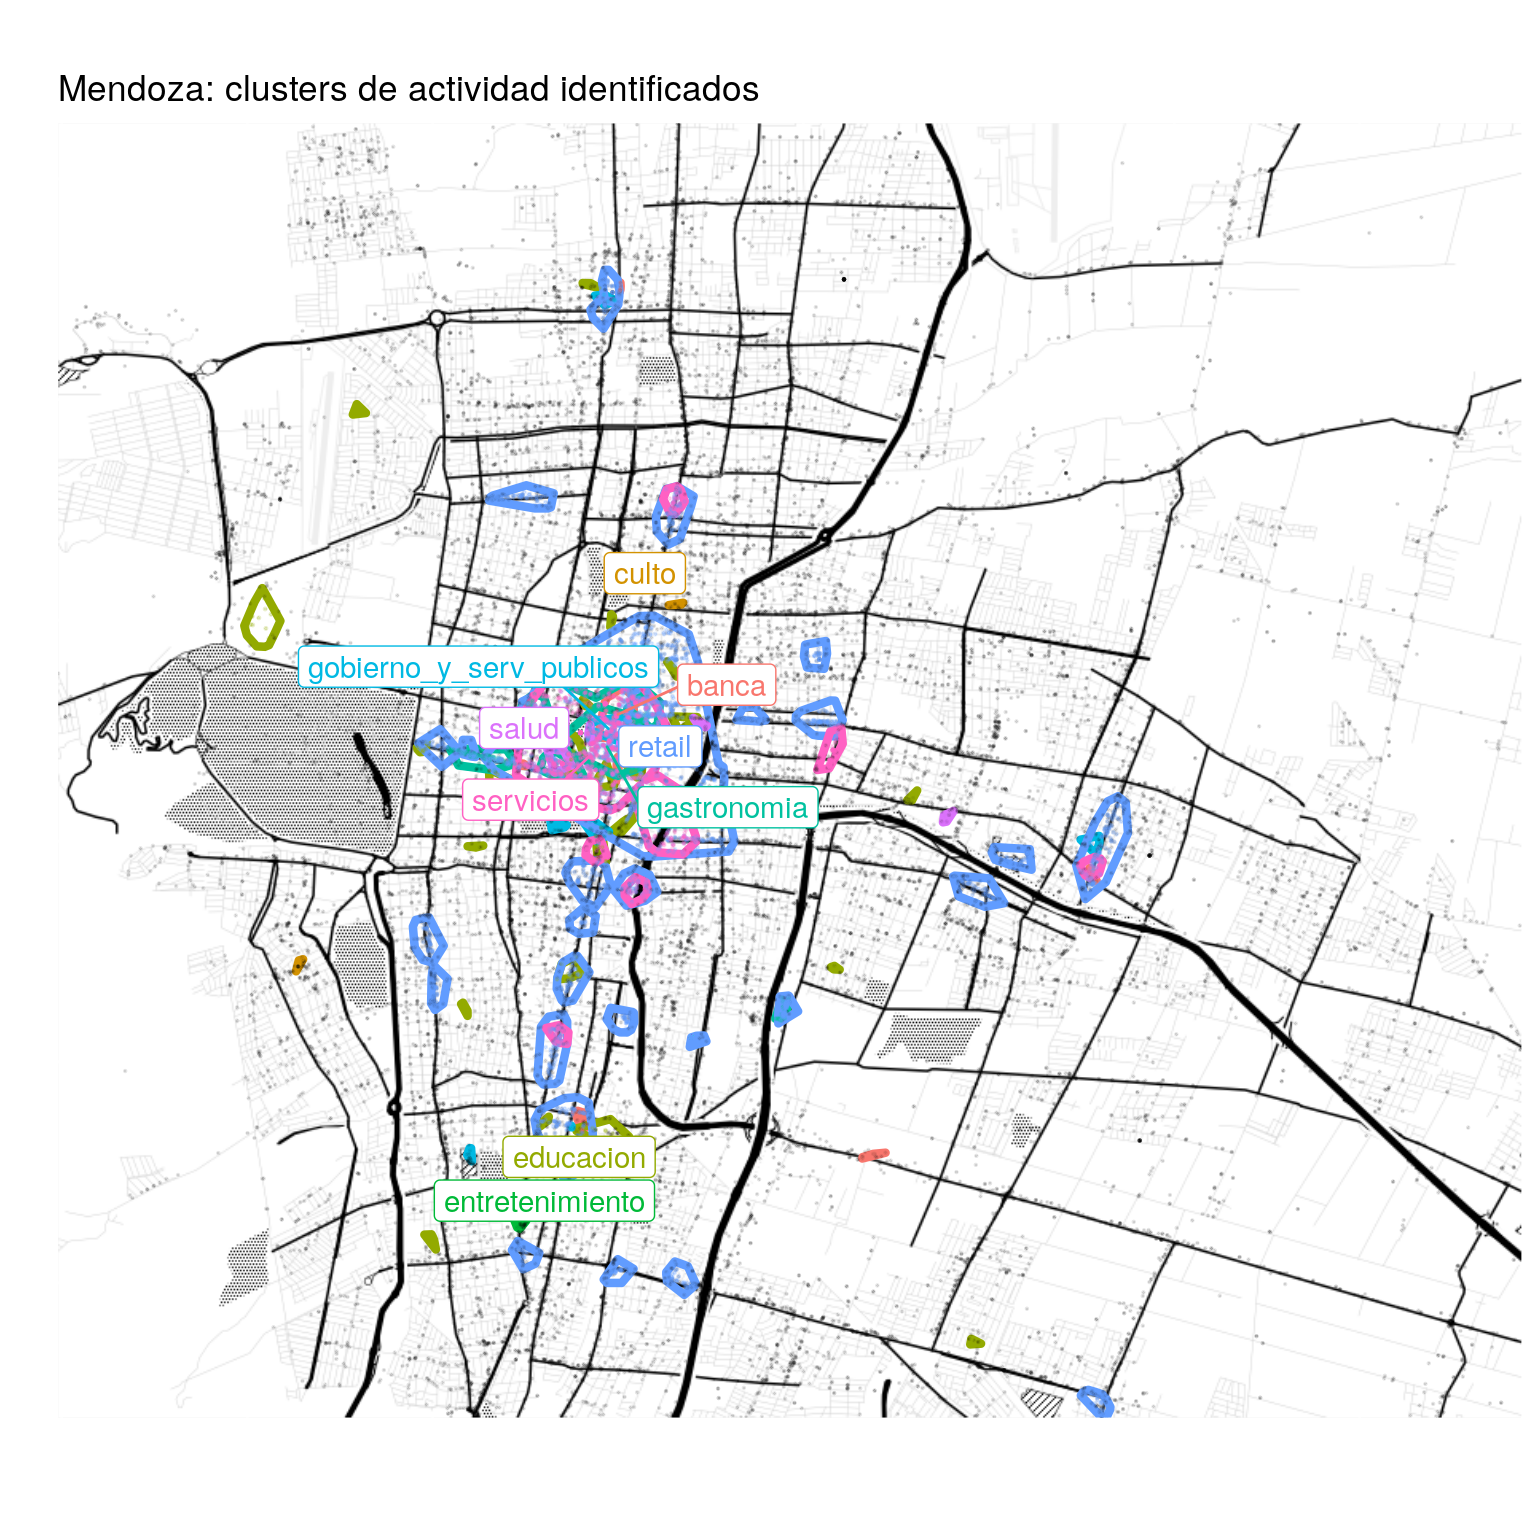
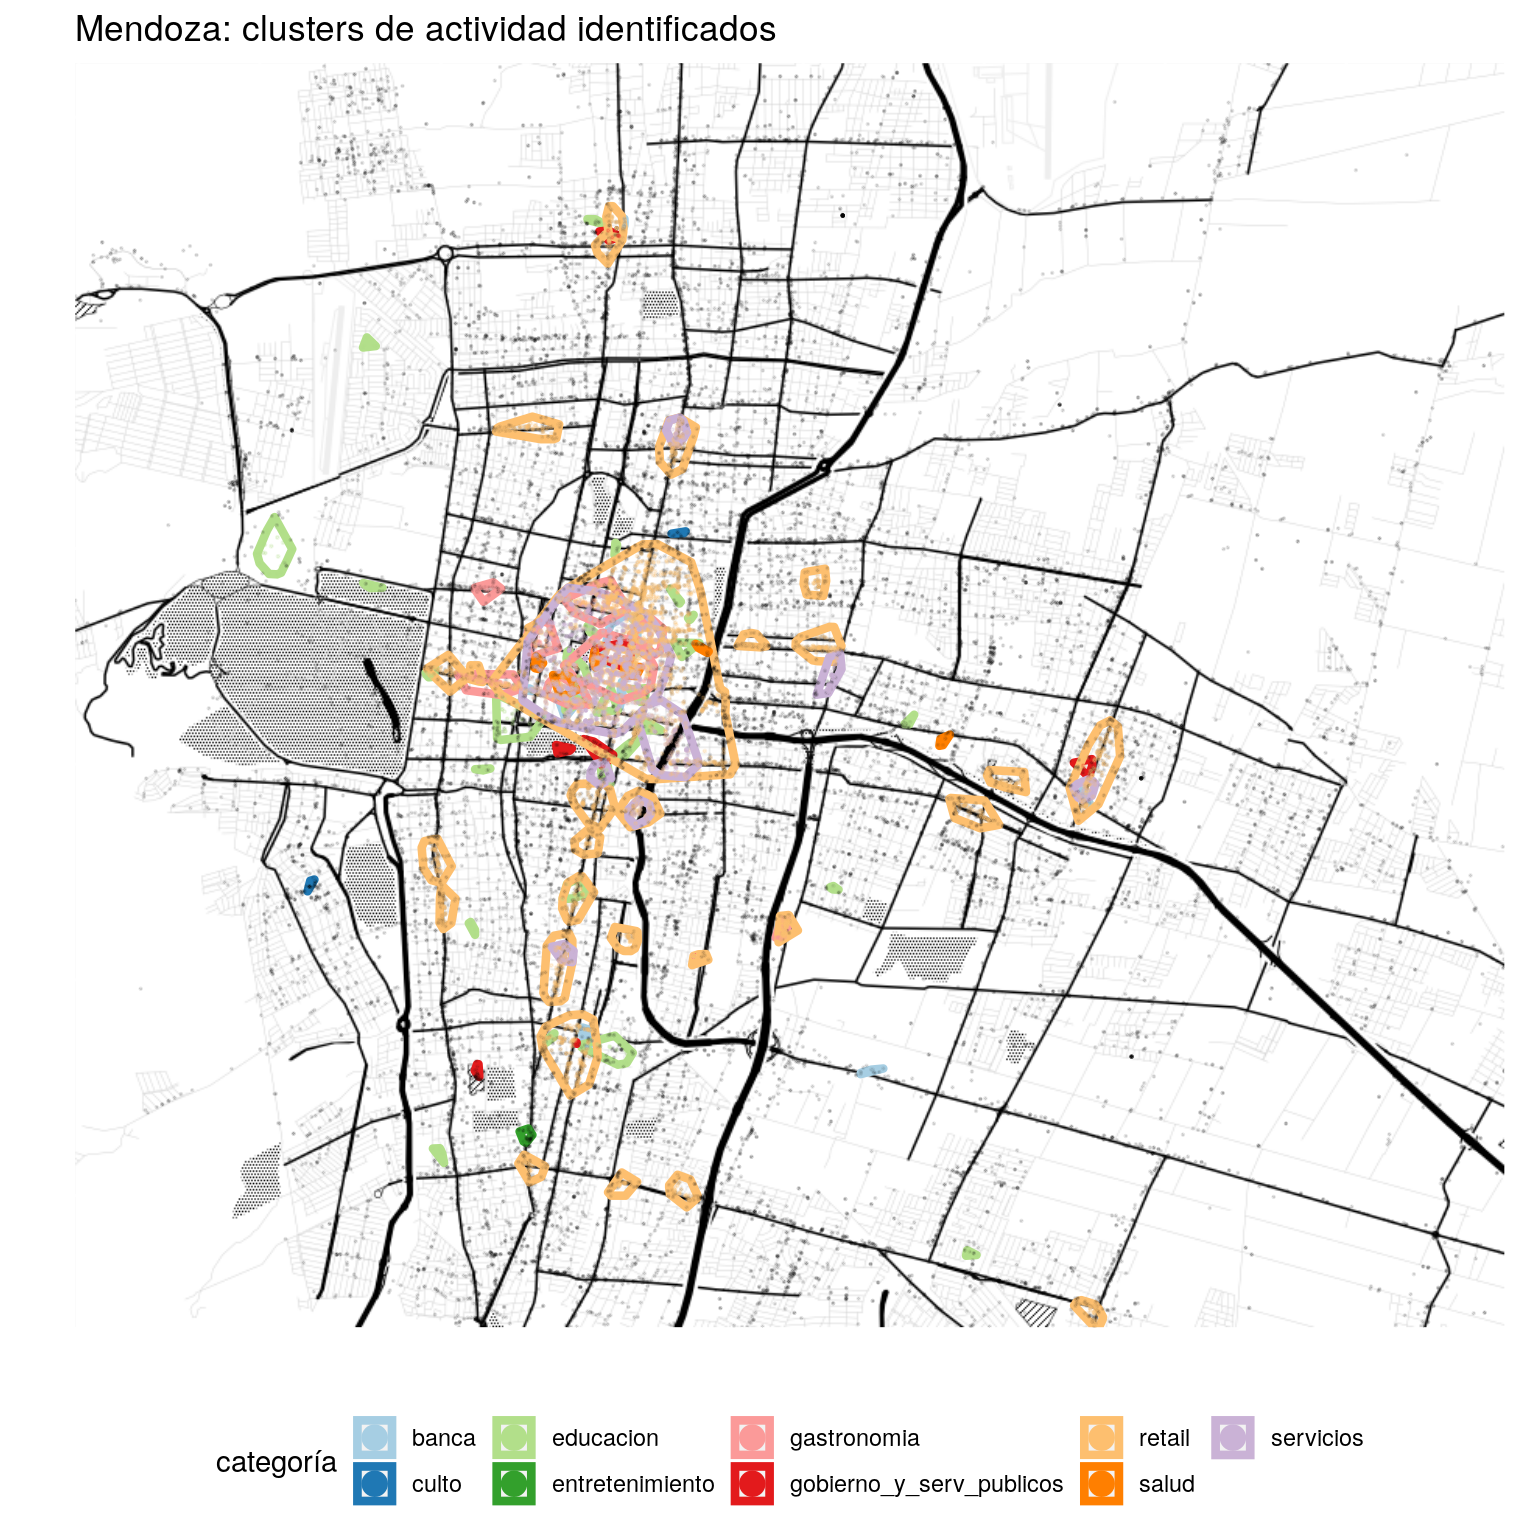
Blog update

Changed region(s): [[0.0312, 0.0, 1.0, 1.0], [0.875, 0.2188, 0.9688, 0.2812], [0.7812, 0.2188, 0.8438, 0.25]]

diff --git a/post/dbscan-machine-learning-para-detectar-centros-de-actividad-urbana/index.html b/post/dbscan-machine-learning-para-detectar-centros-de-actividad-urbana/index.html
@@ -232,21 +232,19 @@ ga('send', 'pageview');
 </div>
 <div id="paquetes-a-utilizar" class="section level2">
 <h2>Paquetes a utilizar</h2>
-<p>Los herramientas generales de Tidyverse, siempre útiles para el proceso general de análisis de datos</p>
+<p>Los herramientas generales de Tidyverse, siempre útiles para el proceso general de análisis de datos:</p>
 <pre class="r"><code>library(tidyverse)</code></pre>
-<p>y cinco paquetes especializados:</p>
+<p>y cuatro paquetes especializados:</p>
 <ul>
 <li><code>sf</code> para leer y procesar datos geoespaciales</li>
 <li><code>geosphere</code> para calcular distancias sobre la superficie terrestre</li>
 <li><code>dbscan</code> para emplear el algoritmo homónimo de machine learning que permite encontrar <em>clusters</em> de elementos próximos</li>
 <li><code>ggmap</code> para obtener y visualizar mapas detallados de la ciudad que analizaremos</li>
-<li><code>ggrepel</code> para etiquetar en forma prolija nuestros mapas con gran cantidad de puntos</li>
 </ul>
 <pre class="r"><code>library(sf)
 library(geosphere)
 library(dbscan)
-library(ggmap)
-library(ggrepel)</code></pre>
+library(ggmap)</code></pre>
 </div>
 <div id="los-datos" class="section level2">
 <h2>Los datos</h2>
@@ -438,16 +436,14 @@ hulls_por_cat &lt;- mdz_cluster_hulls %&gt;%
 
 ggmap(mendoza) + 
   coord_sf(crs = st_crs(3857)) + # Necesario cuando se combinan ggmap y geom_sf
-    geom_sf(data = hulls_por_cat, fill = NA, size = 1.5,
+    geom_sf(data = hulls_por_cat, fill = NA, size = 1.5, alpha = .5,
             aes(color = factor(categoria)), inherit.aes = FALSE) +
     geom_point(data = filter(mdz_poi, cluster == 0), size = .1, alpha =.1,
                aes(x = lng, y = lat)) +
     geom_point(data = filter(mdz_poi, cluster != 0), size = .2, alpha =.2,
-               aes(x = lng, y = lat, color = factor(categoria))) + 
-    ggrepel::geom_label_repel(data = hulls_por_cat,
-                              aes(label = categoria, color = factor(categoria), geometry = geom),
-                              stat = &quot;sf_coordinates&quot;,
-                              inherit.aes = FALSE) +
+               aes(x = lng, y = lat, color = factor(categoria))) +
+    # definimos la escala de colores 
+    scale_color_brewer(palette = &quot;Paired&quot;) +
     labs(y = &quot;&quot;, x = &quot;&quot;,
          title=&quot;Mendoza: clusters de actividad identificados&quot;,
          color = &quot;categoría&quot;) +
@@ -455,7 +451,8 @@ ggmap(mendoza) +
     theme(axis.text.x = element_blank(),
           axis.text.y = element_blank(),
           axis.ticks = element_blank()) +
-    guides(colour = FALSE)</code></pre>
+    guides(colour = guide_legend(override.aes = list(size=4, alpha = 1))) +
+    theme(legend.position=&quot;bottom&quot;)</code></pre>
 <p><img src="/post/2019-07-05-dbscan-machine-learning-para-detectar-centros-de-actividad-urbana.es_files/figure-html/unnamed-chunk-18-1.png" width="768" /></p>
 </div>
 
